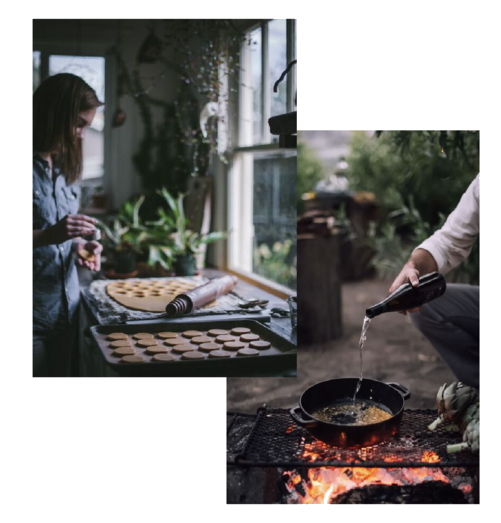
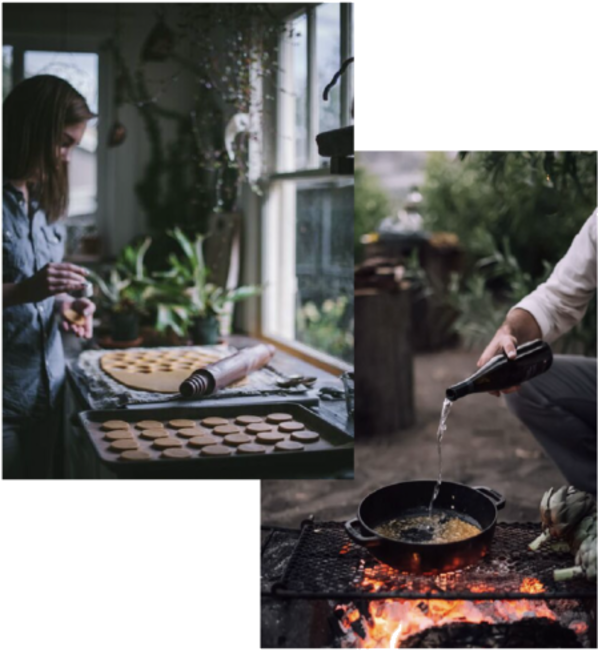
Before changing layout of #features

diff --git a/css/styles.css b/css/styles.css
@@ -1,31 +1,30 @@
-
 body {
   font-family: 'Montserrat', sans-serif;
 }
 
-/* TOP CONTAINER */
+p {
+  font-size: 1.1rem;
+}
 
+/* TOP CONTAINER */
 #title {
   background-color: #222831;
 }
 
 .container {
   padding: 0;
+  max-width: 1300px;
 }
 
-  /* Navigation Bar */
-
+/* Navigation Bar */
 .navbar {
   padding: 1rem 0 4rem 0;
-
 }
 
 .navbar-dark .navbar-brand {
   font-family: 'Girassol', cursive;
   font-size: 2rem;
   color: #ffd369;
-
-
 }
 
 .navbar-dark .navbar-brand:hover, .navbar-dark .navbar-brand:focus {
@@ -47,8 +46,7 @@ body {
   padding-left: 0;
 }
 
-  /* Title */
-
+/* Title */
 .h1-normal {
   color: #ececec;
   font-family: 'Playfair Display', serif;
@@ -66,11 +64,6 @@ body {
   font-style: italic;
 }
 
-
-.row .col-md-6 {
-  padding-top: 30px;
-  padding-bottom: 60px;
-}
 .btn {
   margin-top: 30px;
   border-radius: 20px;
@@ -88,35 +81,34 @@ body {
 
 .col-sm {
   padding-left: 0;
+  padding-right: 0;
   padding-bottom: 80px;
-
 }
 
 .img-fluid {
-max-width: 100%;
-border-radius: 20px;
-/* opacity: 0.5;*/
+  max-width: 100%;
+  /* opacity: 0.5;*/
 }
 
 /* MIDDLE CONTAINER */
-
 #features {
   background-color: #ececec;
-  padding: 100px 0;
+  padding: 150px 0;
+}
+
+.col-lg {
+  margin-bottom: 70px;
 }
 
 .features-img {
   max-width: 80%;
-  padding-bottom: 20px;
+  padding-bottom: 35px;
 }
-
-
-
 
 #testimonials {
   background-color: #ececec;
 }
 
-#press  {
+#press {
   background-color: #ececec;
 }

diff --git a/index.html b/index.html
@@ -78,10 +78,10 @@
         <div class="col-lg text-center">
           <img src="css/images/features1.png" class="features-img" alt="pan">
           <h3>Hi there and welcome!</h3>
-          <p>My name is Sofiya. Me and my boyfriend Mattia like cooking together at our home. </p>
+          <p>I am Sofiya. Me and my boyfriend Mattia we like cooking together at our home. </p>
         </div>
         <div class="col-lg text-center">
-          <img src="css/images/features21.png" class="features-img" alt="pan">
+          <img src="css/images/features2.png" class="features-img" alt="pan">
           <h3>Discover our recepies</h3>
           <p>Here I share different awesome recepies that we are trying out on our kitchen.</p>
         </div>
